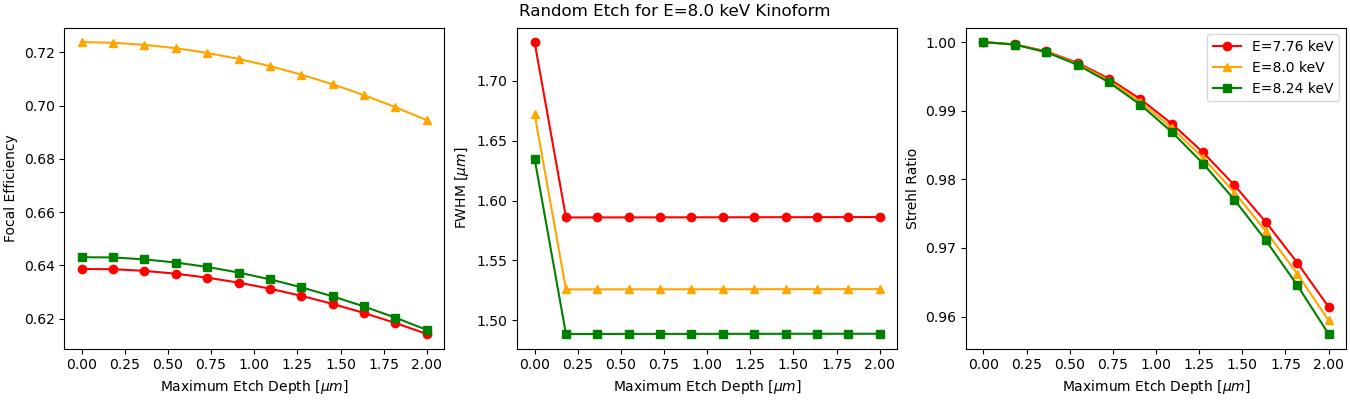
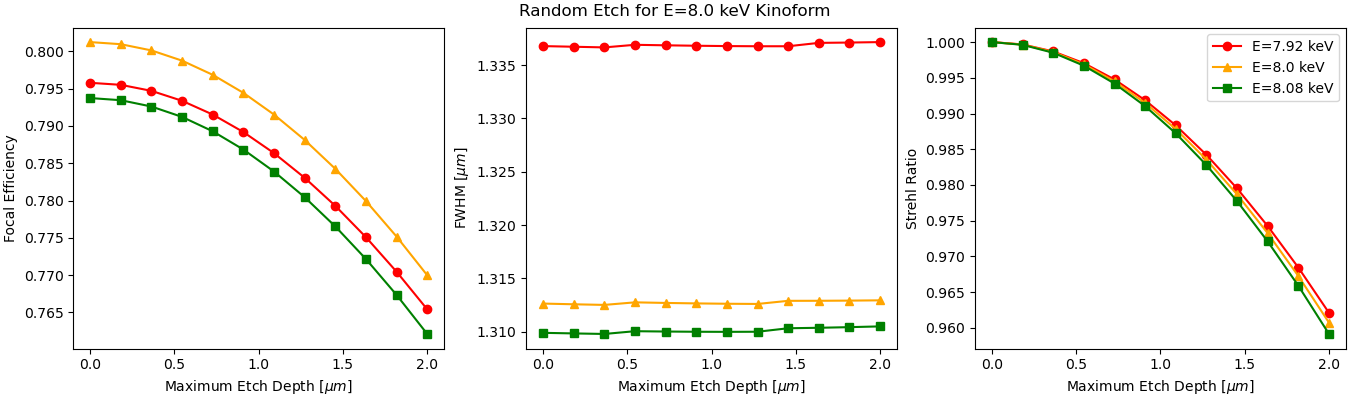
FZP/Kinoform parent class

diff --git a/optics/metrics/error_metrics.py b/optics/metrics/error_metrics.py
@@ -3,7 +3,7 @@ import scipy.constants as const
 import matplotlib.pyplot as plt
 import matplotlib.colors as mcolors
 import xraylib as xrl
-import os, functools, inspect
+import os, functools, inspect, argparse
 from pathlib import Path
 
 from ..propagators import *
@@ -13,6 +13,12 @@ from .metrics import *
 script_dir = Path(__file__).resolve().parent
 savedir = (script_dir / "./results").resolve()
 savedir.mkdir(parents=True, exist_ok=True)
+
+parser = argparse.ArgumentParser()
+parser.add_argument("-N", type=int, required=True,
+                    help="grid resolution (Nx, and Ny when dim=2)")
+parser.add_argument("--dim", type=int, choices=[1, 2], default=2,
+                    help="simulation dimensionality (1 or 2)")
     
 def error_metrics(source_factory, lens_factory, propagator, error_func, sweep_param,
                   err_values, metrics=("P_eff", "FWHM", "Strehl"),
@@ -131,10 +137,13 @@ def plot_sweep(err, vals, labels, savepath):
     print(f"Saved sweep figure to {savepath}.")
 
 def main():
-    Lx, Lz, N = 1.5e-4, 10000, 2048
+    args = parser.parse_args()
+    N = args.N
+    dim = args.dim
+
+    Lx, Lz = 1.5e-4, 10000
     # SIM = {"Lx": Lx, "Ly": Lx, "Nx": N, "Ny": N, "Lz": Lz}
     E, f, R = 8.e3, 1.0, 5e-5
-    dim = 2
     
     n = xrl.Refractive_Index("Si", E / 1000, 2.329)
 
@@ -200,7 +209,7 @@ def main():
                     "x_scale_factor":  -1e6,                 # m -> um
                     "y_scale_factor": [1.0, 1e6, 1.0],     # FWHM m -> um
                     "label": [f"E={E_i/1000} keV" for E_i in E_range],
-                    "title": f"Periodic Etch for E={E/1000} keV Kinoform",
+                    "title": f"Periodic Etch for (E={E/1000} keV, f={f} m, R={R*1e6} m) Kinoform",
                     "marker": ["o", "^", "s", "d", "x"],
                     "color": ["red", "orange", "green", "blue", "purple"]
                 }
@@ -230,7 +239,7 @@ def main():
                     "x_scale_factor":  1e6,                 # m -> um
                     "y_scale_factor": [1.0, 1e6, 1.0],
                     "label": [f"E={E_i/1000} keV" for E_i in E_range],
-                    "title": f"Sidewall Taper (proportion={p}) for E={E/1000} keV Kinoform",
+                    "title": f"Sidewall Taper (proportion={p}) for (E={E/1000} keV, f={f} m, R={R*1e6} m) Kinoform",
                     "marker": ["o", "^", "s", "d", "x"],
                     "color": ["red", "orange", "green", "blue", "purple"]
                 }
@@ -259,7 +268,7 @@ def main():
                     "x_scale_factor":  1.0,
                     "y_scale_factor": [1.0, 1e6, 1.0],
                     "label": [f"E={E_i/1000} keV" for E_i in E_range],
-                    "title": f"Cap Height for E={E/1000} keV Kinoform",
+                    "title": f"Cap Height for (E={E/1000} keV, f={f} m, R={R*1e6} m) Kinoform",
                     "marker": ["o", "^", "s", "d", "x"],
                     "color": ["red", "orange", "green", "blue", "purple"]
                 }
@@ -288,7 +297,7 @@ def main():
                     "x_scale_factor":  1.0,
                     "y_scale_factor": [1.0, 1e6, 1.0],
                     "label": [f"E={E_i/1000} keV" for E_i in E_range],
-                    "title": f"Cap Floor for E={E/1000} keV Kinoform",
+                    "title": f"Cap Floor for (E={E/1000} keV, f={f} m, R={R*1e6} m) Kinoform",
                     "marker": ["o", "^", "s", "d", "x"],
                     "color": ["red", "orange", "green", "blue", "purple"]
                 }
@@ -310,14 +319,14 @@ def main():
         case "y":
             err_values = np.logspace(-8, -6, 10)
             labels = {
-                    "xlabel": [r"Beam Width $[\mu m]$"] * len(metrics),
+                    "xlabel": [r"Beam Width $[nm]$"] * len(metrics),
                     "ylabel": ["Focal Efficiency", r"FWHM $[\mu m]$", "Strehl Ratio"],
                     "xscale": ["log"] * len(metrics),
                     "yscale": ["linear", "linear", "linear"],
-                    "x_scale_factor":  1e6,
+                    "x_scale_factor":  1e9,
                     "y_scale_factor": [1.0, 1e6, 1.0],
                     "label": [f"E={E_i/1000} keV" for E_i in E_range],
-                    "title": f"Zone Warping for E={E/1000} keV Kinoform",
+                    "title": f"Zone Warping for (E={E/1000} keV, f={f} m, R={R*1e6} m) Kinoform",
                     "marker": ["o", "^", "s", "d", "x"],
                     "color": ["red", "orange", "green", "blue", "purple"]
                 }

diff --git a/optics/classes/lens_classes.py b/optics/classes/lens_classes.py
@@ -135,7 +135,33 @@ class XrayParabolicLens(CircularLens):
     
         return t_parabolic
     
-class FZP(CircularLens):
+class PhaseWrappedLens(CircularLens):
+    '''
+    Shared base for phase-wrapped diffractive lenses (FZP, Kinoform).
+
+    Subclasses are expected to set (typically in their own __init__ before
+    calling super().__init__):
+      - self.wavelength : design wavelength [m]
+      - self.delta      : 1 - Re(n)
+      - self.height     : full phase-step height [m]
+      - self.zones      : (fractional) number of zones inside R
+      - self.zone_locations : 1D array of zone-boundary radii (length zones+1)
+      - self.zone_widths    : zone_locations[1:] - zone_locations[:-1]
+
+    This class intentionally does not define __init__ or thickness so the
+    existing FZP / Kinoform constructors and profile logic are untouched.
+    '''
+        
+    def mth_zone(self, m):
+        self.zone_locations: np.ndarray
+        return self.zone_locations[m]
+
+    @staticmethod
+    def calc_zone_widths(zone_locations):
+        assert len(zone_locations) > 1
+        return zone_locations[1:] - zone_locations[:-1]
+
+class FZP(PhaseWrappedLens):
     def __init__(self, wavelength, f, R, n, simulation: SimulationObject, z, zone_height: float | None = None, p=2, positive=True, **kwargs):
         self.wavelength = wavelength
         self.delta = (1.-n).real
@@ -195,7 +221,7 @@ class FZP(CircularLens):
         zone_widths = zone_right - zone_left
         return zone_widths
         
-class Kinoform(CircularLens):
+class Kinoform(PhaseWrappedLens):
     def __init__(self, wavelength, f, R, n, simulation: SimulationObject, z, full=True, zone_height: float | None = None, **kwargs):
         self.wavelength = wavelength
         self.delta = (1.-n).real
@@ -479,9 +505,6 @@ class LensErrors():
         r_left_new= r_left_all + eps
         r_right_new = r_right_all + eps
         lens.reshape(r_left_new, r_right_new)
-        # lens.zone_locations = np.insert(r_right_all + eps, 0, 0.)
-        # lens.zone_widths = lens.calc_zone_widths(lens.zone_locations)
-        # lens.mutated = True
         profile *= lens.aperture_field > 0
             
         return profile, err
@@ -584,9 +607,6 @@ class LensErrors():
                     if R_new < kinoform.R:
                         print("Warning: Shrinking aperture...")
                         kinoform.reshape(r_m_in[:m_last+1], r_m_out[:m_last+1])
-                        # kinoform.reshape(R=R_new)
-                        # kinoform.zone_locations = kinoform.zone_locations[:m_last + 2]
-                        # kinoform.zone_widths = Kinoform.calc_zone_widths(kinoform.zone_locations)
                         kinoform.zones = len(surviving)
         
         profile = profile * (kinoform.aperture_field > 0)
@@ -622,9 +642,7 @@ class LensErrors():
             profile[mask] = taper
             
         kinoform.reshape(kinoform.zone_left, r_end)
-        # kinoform.zone_locations = r_end
-        # kinoform.zone_widths = Kinoform.calc_zone_widths(kinoform.zone_locations)
-                
+
         return profile, errs
     
     @staticmethod

diff --git a/optics/basic_test_cases/error_test.py b/optics/basic_test_cases/error_test.py
@@ -282,10 +282,6 @@ def test_zone_warping():
     print(lens.zone_widths[-1], beam_width/lens.zone_widths[-1])
     # lens.add_error(LensErrors.kinoform_sidewall_taper, err=1e-8, proportion=0.3)
     lens.add_error(LensErrors.kinoform_zone_warping, R_min=0, R_max=R, beam_width=beam_width)
-    # lens.add_error(LensErrors.kinoform_zone_warping, R_min=0.5*R, R_max=0.7*R, mag=0.015)
-    # lens.add_error(LensErrors.kinoform_zone_warping, R_min=0.7*R, R_max=R, mag=0.06)
-    # lens.add_error(LensErrors.kinoform_zone_warping, beam_width=beam_width)
-    
     lens.add_error(LensErrors.cap_floor, h=0.02, proportion=True)
 
 
@@ -333,14 +329,6 @@ def test_multierror():
     lens.add_error(LensErrors.cap_floor, h=0.01, proportion=True)
     lens.add_error(LensErrors.cap_height, h=0.98, proportion=True)
     print(lens.zone_locations[-1], lens.R)
-    # print(lens.zone_locations)
-
-    # print(lens.zone_locations)
-    # lens.add_error(LensErrors.zone_removal, remove_last=True, mutable=True)
-    # lens.reset()
-    # # print(lens.zone_locations)
-    
-    # lens.add_error(LensErrors.kinoform_sidewall_taper, err=1e-6)
     
     print("Outer Zone Width:", lens.zone_widths[-1])
     
@@ -422,9 +410,8 @@ def test_FZP_error():
     lens = FZP(wavelength=source.wavelength, f=f, R=R, n=n,
                     simulation=simulation, z=0, positive=True)
     print("FZP Height:", lens.height)
-    # print(lens.zone_locations)
-    print(lens.zone_locations)
-    lens.add_error(LensErrors.FZP_sidewall_taper, err=1e-7)
+
+    lens.add_error(LensErrors.FZP_sidewall_taper, err=1e-6)
 
     print("Outer Zone Width:", lens.zone_widths[-1])
     
@@ -454,9 +441,9 @@ if __name__ == "__main__":
     # test_taper(1e-6)
     # # test_zone_quantization()
     # test_zone_warping()
-    test_multierror()
+    # test_multierror()
     # test_reference()
-    # test_FZP_error()
+    test_FZP_error()
 
     
     

diff --git a/multilayer/physics.py b/multilayer/physics.py
@@ -1,9 +1,57 @@
 import numpy as np
-import xraylib as xray
+import scipy.constants as const
+import xraylib as xrl
 
-def snell(alpha: float, n1, n2) -> float:
+import matplotlib.pyplot as plt
+
+JOULE_TO_EV = 1/const.e
+M_TO_ANG = 1e10
+
+def snell(alpha, n1, n2):
     alpha_p = np.arcsin(n1/n2 * np.sin(alpha))
     return alpha_p
 
-def reflectivity():
-    pass
+def reflectivity(Q0, Q1, D):
+    r01 = (Q0-Q1)/(Q0+Q1)
+    p = np.exp(1j*Q1*D/2)
+    r_slab = (r01*(1-p**2))/(1-r01**2*p**2) 
+    return r_slab   
+    
+if __name__ == "__main__":
+    plt.figure()
+    ## Introduction to Modern X-ray Physics (Ch. 3)
+    wavelength = 1.54051e-10
+    E = const.h * const.c/wavelength  # keV
+    k = 2*const.pi/(wavelength*M_TO_ANG)
+    D = 10*2*const.pi
+    print(k)
+    n1 = 1.
+    n2 = xrl.Refractive_Index("W", E/1000*JOULE_TO_EV, 19.3)
+    
+    a = np.linspace(0, const.pi/2, 10000) # incident angles
+
+    Qc = 0.081 # A^-1
+    Q = 2*k*np.sin(a)
+    Qp = np.sqrt(Q**2 - Qc**2 + 0j)
+
+    r_slab = reflectivity(Q, Qp, D)
+
+    plt.plot(Q, np.abs(r_slab)**2)
+    plt.yscale("log")
+    plt.gca().set(xlim=(0, 1), ylim=(1e-10, 1))
+    plt.show()
+    # q = Q/Qc
+    # qp = Qp/Qc
+    # print(q, qp)
+    # # quit()
+    # r_slab = reflectivity(q, qp, D)
+
+    # # r_slab = (Qc/(2*Q))**2*(1-np.exp(1j*Q*D))
+    # plt.plot(Q, np.abs(r_slab)**2)
+    # plt.yscale("log")
+    # plt.gca().set(xlim=(1e-10, 1-1e-10), ylim=(1e-10, 1))
+    # plt.show()
+    
+    
+    
+    

diff --git a/simulation/plotting.py b/simulation/plotting.py
@@ -13,10 +13,9 @@ import xraylib as xrl
 from ..optics import SimulationObject, Waveform, AngularSpectrum, ConstantBeam, Kinoform
 
 def plot_sideview(simulation: SimulationObject, z_max, dz):
-    propagator = simulation.propagator 
     source = simulation.objects["source"]
     lens = simulation.objects["lens"]
-    
+    propagator = AngularSpectrum(simulation=simulation)
     Nz = int(z_max//dz)
     print("Nz:", Nz)
     print("Simulating ...")
@@ -55,12 +54,10 @@ if __name__ == "__main__":
     savedir.mkdir(parents=True, exist_ok=True)
 
     Lx, Lz, N = 1.5e-4, 1.5, 2048
-    E, f, R = 8.5e3, 1.0, 5e-5
+    E, f, R = 8.e3, 1.0, 5e-5
     n = xrl.Refractive_Index("Si", E / 1000, 2.329)
 
     sim = SimulationObject(Lx=Lx, Ly=Lx, Lz=Lz, Nx=N, Ny=N)
-    sim.add_propagator(AngularSpectrum(sim))
-
     source = ConstantBeam(energy=E, simulation=sim, z=0)
     lens = Kinoform(wavelength=source.wavelength, f=f, R=R, n=n,
                     simulation=sim, z=0.1)

diff --git a/optics/metrics/lens_comparison.py b/optics/metrics/lens_comparison.py
@@ -214,8 +214,8 @@ def test_compare_xray_lenses(lens_dict, N, dim, extend=False):
     print("Comparing Lenses...")
     
     # Parameters
-    Lx = 8e-4
-    Ly = 8e-4 if dim == 2 else None
+    Lx = 3e-4
+    Ly = 3e-4 if dim == 2 else None
     Lz = 10000
     E = 8e3        # eV
     f = 0.1        # m

diff --git a/simulation/setup.py b/simulation/setup.py
@@ -3,3 +3,12 @@ from ..optics import *
 def build_simulation(N, Lx, Ly = None, Lz=1000):
     return SimulationObject(Lx=Lx, Nx=N, Lz=Lz, Ly=Ly, Ny=N)
 
+def main():
+    pass
+
+def rayleigh(wavelength, f, D):
+    return wavelength * f/D
+    
+
+if __name__ == "__main__":
+    main()

diff --git a/multilayer/__init__.py b/multilayer/__init__.py
@@ -1,2 +1,2 @@
 from .classes import *
-from .physics import *
+# from .physics import *
